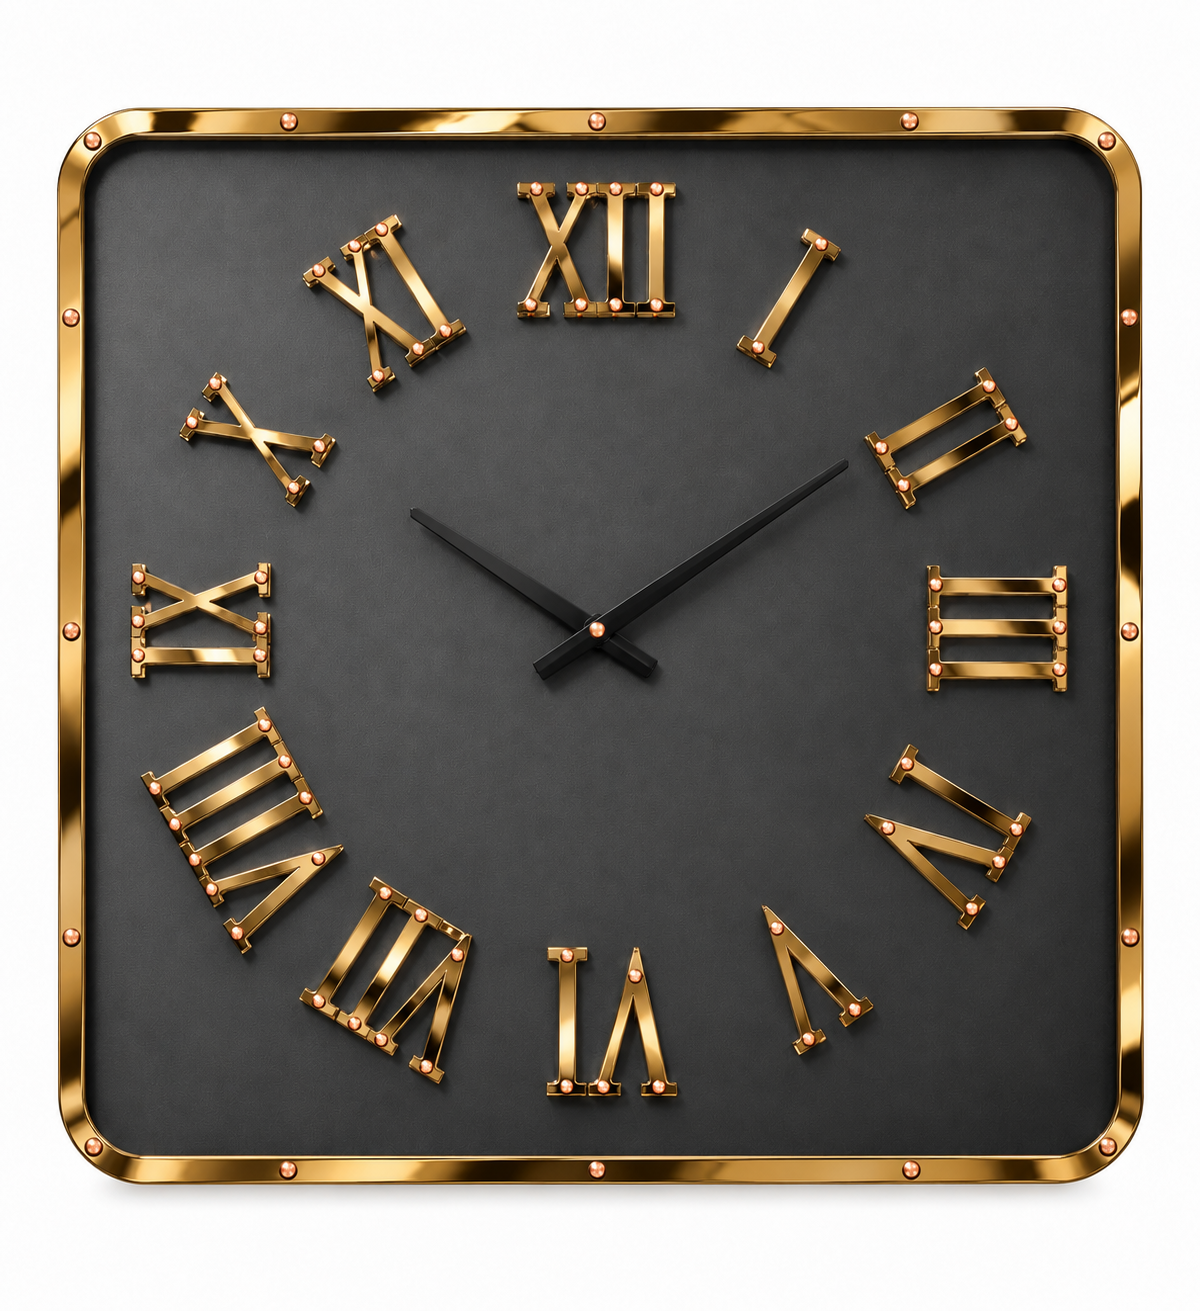
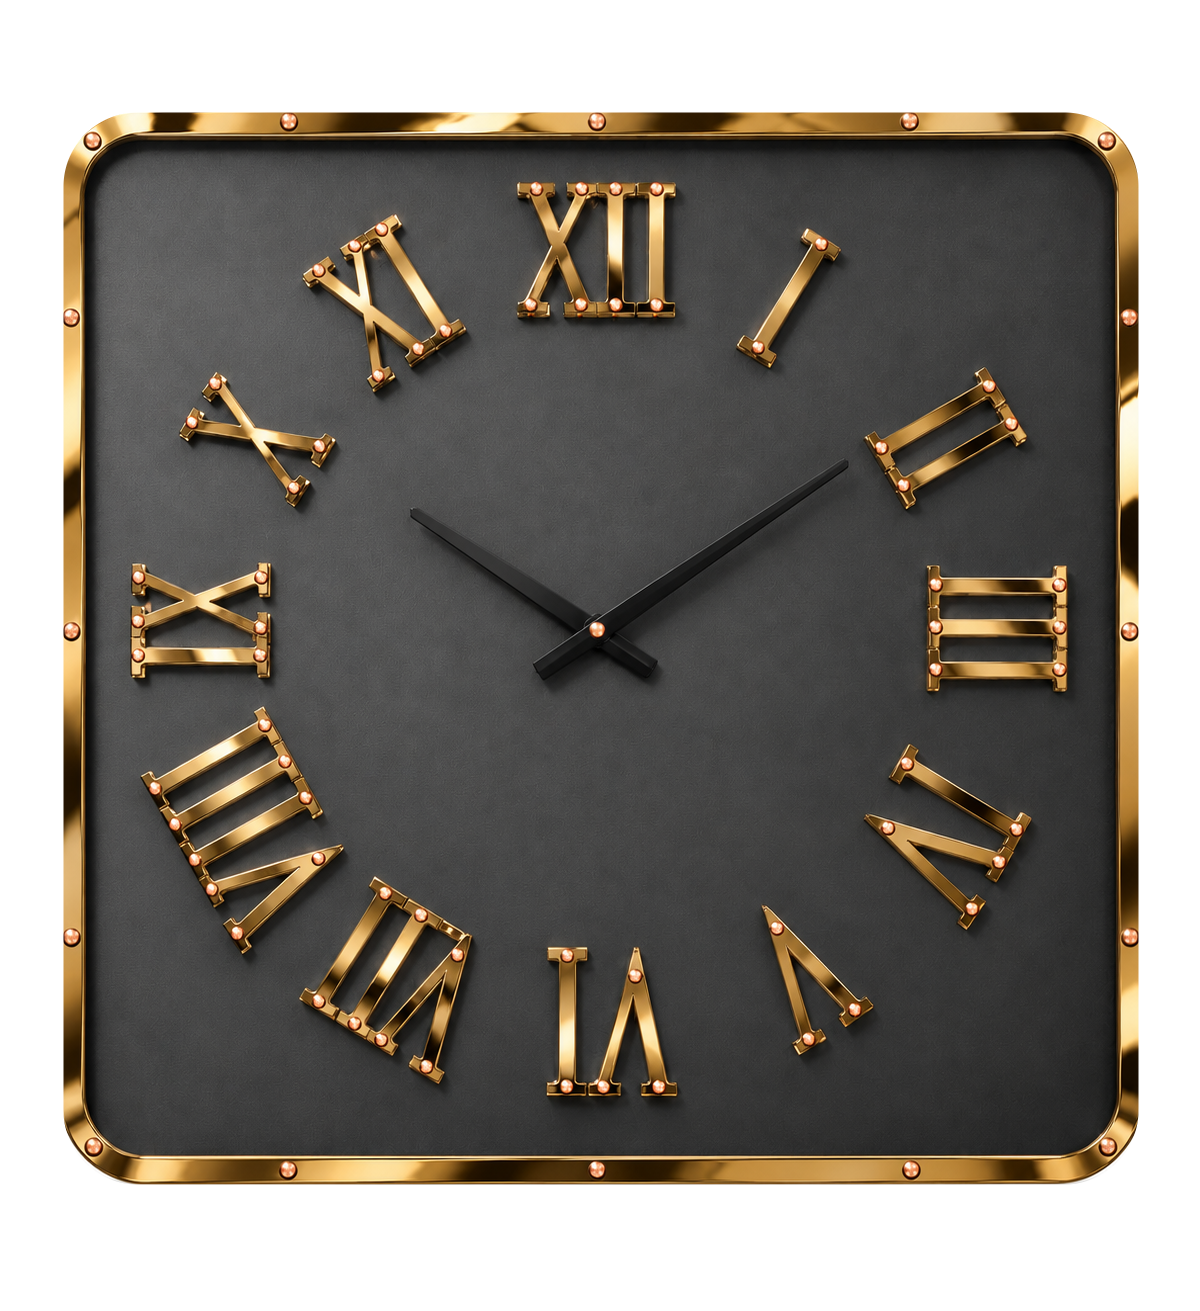
fix(catalog): refine square clock product image transparency

diff --git a/src/components/catalog/product-configurator.tsx b/src/components/catalog/product-configurator.tsx
@@ -81,7 +81,9 @@ export function ProductConfigurator({
                 delay={Math.min(index * 0.06, 0.18)}
               >
                 <figure
-                  className={`relative aspect-square overflow-hidden bg-matte ${
+                  className={`relative aspect-square overflow-hidden ${
+                    image.imageType === "PRODUCT" ? "bg-transparent" : "bg-matte"
+                  } ${
                     index === 0 ? "" : "sm:ms-auto sm:w-4/5"
                   }`}
                   data-image-type={image.imageType}
